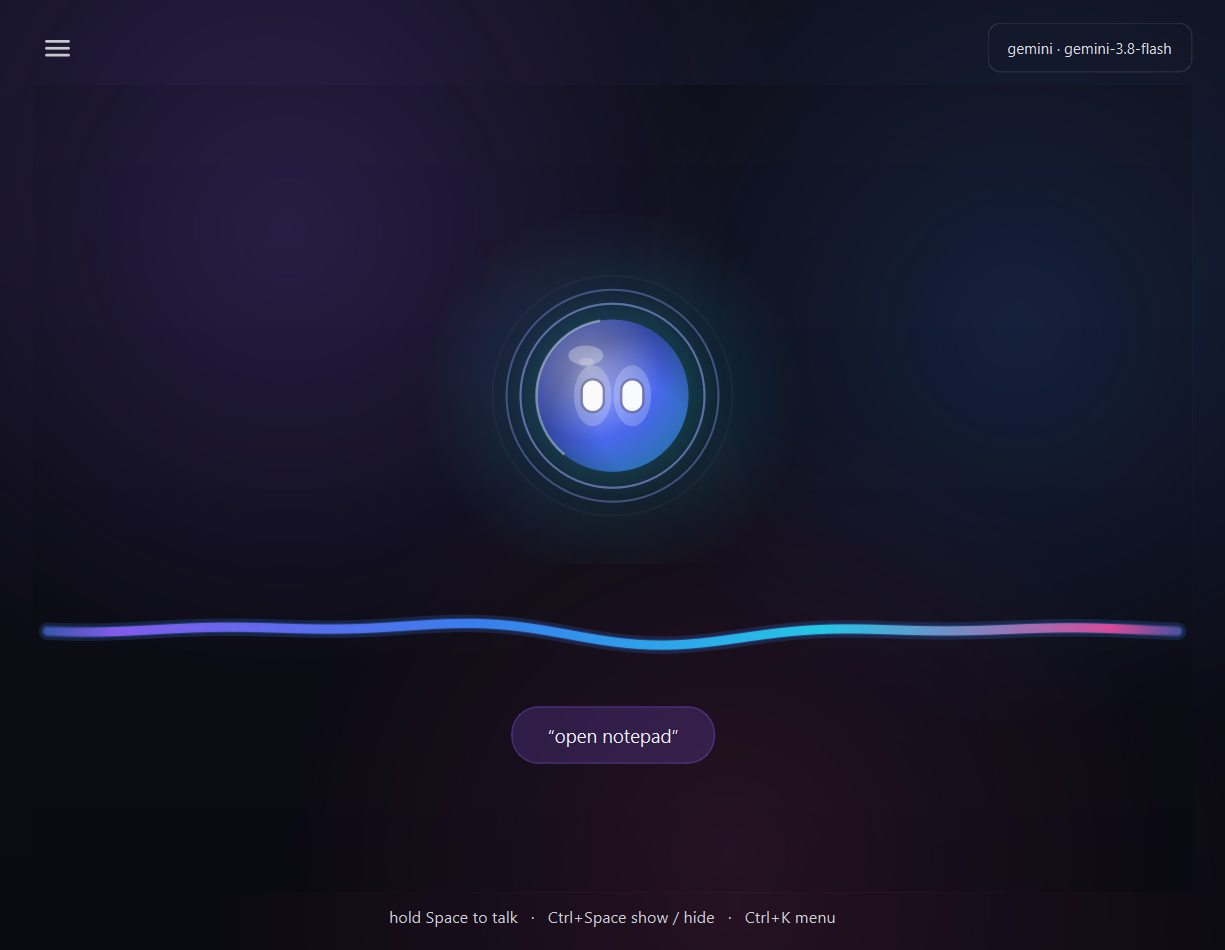
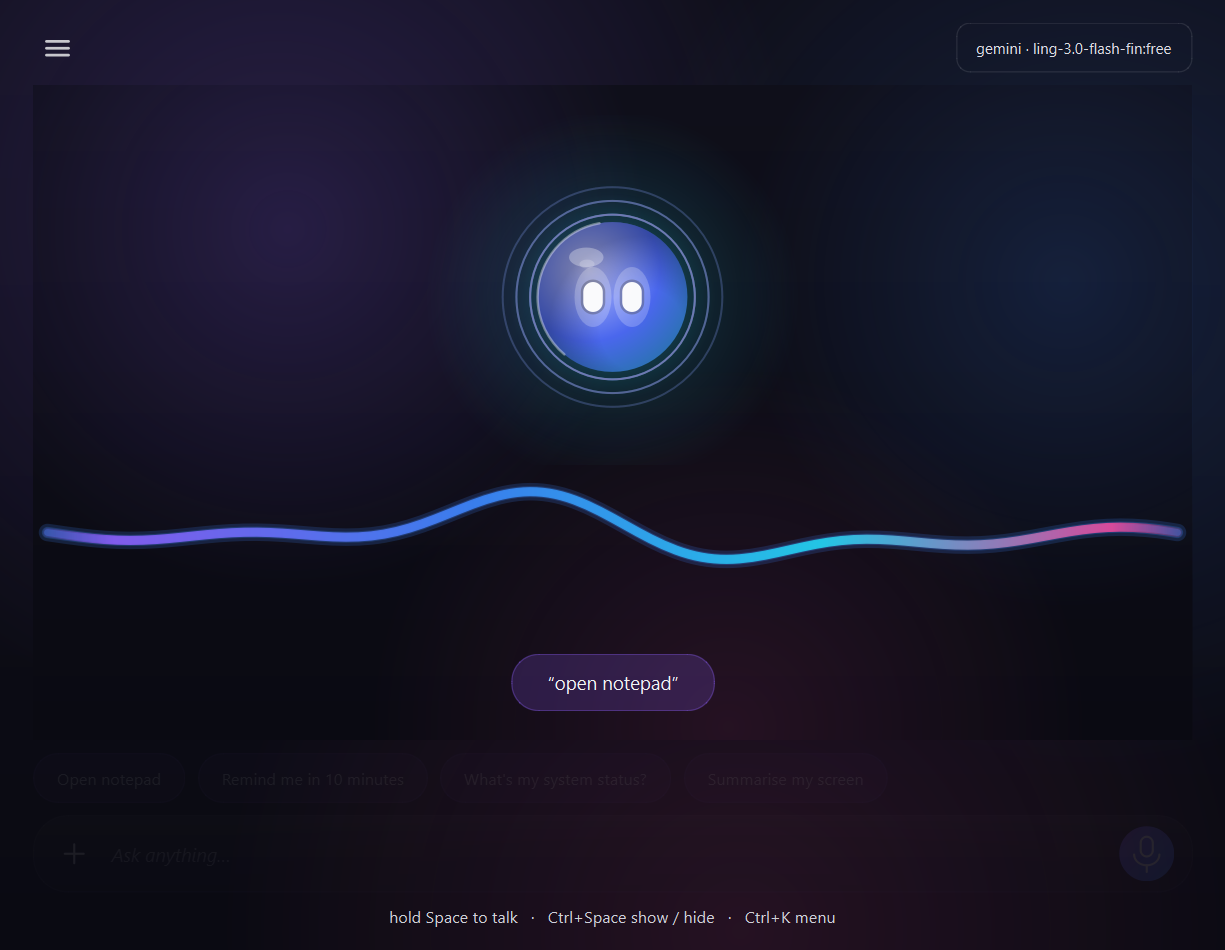
v36: no raw JSON errors (human toast + auto-retry), drifting ambient background, fade-to-10% voice focus, pulsing mic, chain reordered (or-ling -> nemotron -> groq -> gemini -> github)

diff --git a/app_qt.py b/app_qt.py
@@ -70,7 +70,12 @@ def _mix(c1: QColor, c2: QColor, t):
 
 # ---------------------------------------------------------------- background
 class Background(QWidget):
-    """Gradient base + a few huge soft colour orbs (the 'blurred blobs' of the spec)."""
+    """Gradient base + large soft colour orbs that slowly drift (ambient life)."""
+
+    def __init__(self, drift=False):
+        super().__init__()
+        self.drift = drift
+        self.phase = 0.0
 
     def paintEvent(self, _e):
         p = QPainter(self)
@@ -80,10 +85,16 @@ class Background(QWidget):
         g.setColorAt(0, BASE_TOP)
         g.setColorAt(1, BASE_BOTTOM)
         p.fillRect(self.rect(), QBrush(g))
-        for cx, cy, r, col, alpha in (
-                (w * 0.22, h * 0.18, min(w, h) * 0.55, VIOLET, 0.20),
-                (w * 0.85, h * 0.30, min(w, h) * 0.50, BLUE, 0.16),
-                (w * 0.60, h * 0.95, min(w, h) * 0.55, PINK, 0.12)):
+        ph = self.phase if self.drift else 0.0
+        spots = (
+            (w * (0.22 + 0.05 * math.sin(ph * 0.6)), h * (0.18 + 0.04 * math.cos(ph * 0.5)),
+             min(w, h) * 0.55, VIOLET, 0.20),
+            (w * (0.85 + 0.04 * math.cos(ph * 0.45)), h * (0.30 + 0.05 * math.sin(ph * 0.7)),
+             min(w, h) * 0.50, BLUE, 0.16),
+            (w * (0.60 + 0.05 * math.sin(ph * 0.35)), h * (0.95 + 0.03 * math.cos(ph * 0.6)),
+             min(w, h) * 0.55, PINK, 0.12),
+        )
+        for cx, cy, r, col, alpha in spots:
             grad = QRadialGradient(QPointF(cx, cy), r)
             c = QColor(col)
             c.setAlphaF(alpha)
@@ -352,17 +363,31 @@ class IconButton(QPushButton):
         super().__init__()
         self.kind = kind
         self.accent = accent
+        self.pulse = False
+        self._t = 0.0
         self.setFixedSize(size, size)
         self.setCursor(Qt.PointingHandCursor)
         self.setToolTip(tooltip)
         self.setStyleSheet("QPushButton{background:transparent;border:0;}")
+
+    def set_pulse(self, on):
+        self.pulse = bool(on)
+        self.update()
 
     def paintEvent(self, _e):
         p = QPainter(self)
         p.setRenderHint(QPainter.Antialiasing, True)
         w, h = self.width(), self.height()
         s = min(w, h) * 0.5
+        cx, cy = w / 2, h / 2
         if self.accent:
+            if self.pulse:
+                self._t = (self._t + 0.05) % 1.0
+                ring = QColor(VIOLET)
+                ring.setAlphaF(max(0.0, 0.55 * (1 - self._t)))
+                p.setPen(QPen(ring, 2)); p.setBrush(Qt.NoBrush)
+                rr = (w / 2.0) * (1.0 + self._t * 0.55)
+                p.drawEllipse(QPointF(cx, cy), rr, rr)
             g = QLinearGradient(0, 0, w, h)
             g.setColorAt(0, VIOLET); g.setColorAt(1, BLUE)
             p.setBrush(QBrush(g)); p.setPen(Qt.NoPen)
@@ -395,6 +420,8 @@ class Window(QMainWindow):
     level_sig = Signal(float)
     stream_sig = Signal(str)
     history_sig = Signal(str, str)
+    toast_sig = Signal(str)
+    retry_sig = Signal(str)
 
     def __init__(self):
         super().__init__()
@@ -415,12 +442,15 @@ class Window(QMainWindow):
         self.level_sig.connect(self._set_level)
         self.stream_sig.connect(self._stream)
         self.history_sig.connect(self._log_history)
+        self.toast_sig.connect(self.show_toast)
+        self.retry_sig.connect(self._schedule_retry)
         QShortcut(QKeySequence("Ctrl+Space"), self, activated=self._toggle_visible)
         QShortcut(QKeySequence("Ctrl+K"), self, activated=self._open_menu)
 
     # ------------------------------------------------------ build
     def _build(self):
-        stage = Background()
+        stage = Background(drift=True)
+        self._stage = stage
         self.setCentralWidget(stage)
         root = QVBoxLayout(stage)
         root.setContentsMargins(26, 18, 26, 18)
@@ -458,6 +488,16 @@ class Window(QMainWindow):
         self.chips_row.addStretch(1)
         root.addLayout(self.chips_row)
 
+        # toast (human-readable errors - never raw JSON)
+        self.toast = QLabel("")
+        self.toast.setVisible(False)
+        self.toast.setAlignment(Qt.AlignCenter)
+        self.toast.setWordWrap(True)
+        self.toast.setStyleSheet(
+            "background: rgba(236,72,153,0.16); border:1px solid rgba(236,72,153,0.38);"
+            "border-radius:16px; padding:11px 20px; color:#FFE9F4; font-size:13px;")
+        root.addWidget(self.toast, 0, Qt.AlignHCenter)
+
         # floating input pill
         self.bar = QFrame(); self.bar.setStyleSheet(f"QFrame{{{GLASS} border-radius:28px;}}")
         bl = QHBoxLayout(self.bar); bl.setContentsMargins(14, 8, 14, 8); bl.setSpacing(10)
@@ -484,6 +524,10 @@ class Window(QMainWindow):
         hint.setAlignment(Qt.AlignCenter)
         hint.setStyleSheet("color:#CFCFD8;font-size:12.5px;")
         root.addWidget(hint)
+
+        drift = QTimer(self)
+        drift.timeout.connect(self._drift)
+        drift.start(50)
         self._set_visibility("idle")
 
     def _home(self):
@@ -592,6 +636,51 @@ class Window(QMainWindow):
         lay.addWidget(note)
         return page
 
+    # ------------------------------------------------------ toast / errors
+    def show_toast(self, text, ms=6500):
+        self.toast.setText(text)
+        self.toast.setVisible(True)
+        if getattr(self, "_toast_timer", None) is None:
+            self._toast_timer = QTimer(self)
+            self._toast_timer.setSingleShot(True)
+            self._toast_timer.timeout.connect(lambda: self.toast.setVisible(False))
+        self._toast_timer.start(ms)
+
+    @staticmethod
+    def _human_error(err):
+        text = str(err).lower()
+        if "every provider failed" in text or "no provider has an api key" in text:
+            return "Every AI provider is busy right now — I'll retry in a moment."
+        if "503" in text or "high demand" in text:
+            return "That model's overloaded — switching to another one…"
+        if "429" in text or "quota" in text or "rate limit" in text:
+            return "Hit a rate limit — trying a different model…"
+        if "microphone" in text or "input device" in text:
+            return "I can't reach the microphone — try  run.bat mic."
+        if "timeout" in text:
+            return "That took too long — trying again with a faster model…"
+        return "Something went wrong on that one — say it again?"
+
+    # ------------------------------------------------------ drift
+    def _drift(self):
+        self._stage.phase += 0.01
+        self._stage.update()
+
+    # ------------------------------------------------------ fades
+    def _fade(self, widget, target, ms=300):
+        from PySide6.QtCore import QPropertyAnimation
+        fx = widget.graphicsEffect()
+        if not isinstance(fx, QGraphicsOpacityEffect):
+            fx = QGraphicsOpacityEffect(widget)
+            widget.setGraphicsEffect(fx)
+            fx.setOpacity(1.0)
+        anim = QPropertyAnimation(fx, b"opacity", widget)
+        anim.setDuration(ms)
+        anim.setStartValue(float(fx.opacity()))
+        anim.setEndValue(float(target))
+        anim.start(QPropertyAnimation.DeleteWhenStopped)
+        widget._fade_anim = anim
+
     # ------------------------------------------------------ menu / pages
     def _open_menu(self):
         menu = QMenu(self)
@@ -638,8 +727,17 @@ class Window(QMainWindow):
         self.transcript.setVisible(listening and bool(hint))
         self.wave.setVisible(mode in ("listening", "speaking", "processing"))
         self.reply_label.setVisible(speaking or bool(self.reply_label.text()))
-        self.bar.setVisible(not listening)
-        self.state_label.setVisible(not listening)
+
+        # voice dominates: instead of hiding, everything else fades back
+        self._fade(self.bar, 0.10 if listening else 1.0, 350)
+        self._fade(self.state_label, 0.12 if listening else 1.0, 350)
+        for i in range(self.chips_row.count()):
+            w = self.chips_row.itemAt(i).widget()
+            if isinstance(w, Pill):
+                w.setVisible(True)
+                target = 1.0 if (mode == "idle" and self.history) else 0.08
+                QTimer.singleShot(i * 70, lambda w=w, t=target: self._fade(w, t, 420))
+
         if listening:
             self.state_label.setText("")
         elif processing:
@@ -648,16 +746,6 @@ class Window(QMainWindow):
             self.state_label.setText("")
         else:
             self.state_label.setText(GREETINGS[int(self.orb.phase) % len(GREETINGS)])
-        if not (listening or processing):
-            pass
-        for i in range(self.chips_row.count()):
-            w = self.chips_row.itemAt(i).widget()
-            if isinstance(w, Pill):
-                show = mode == "idle" and bool(self.history)
-                w.setVisible(show)
-                if show and w.graphicsEffect().opacity() < 0.05:
-                    w.fade_in(120 * i)
-        self._apply_menu_cursor()
 
     def _apply_menu_cursor(self):
         pass
@@ -674,6 +762,7 @@ class Window(QMainWindow):
         threading.Thread(target=self._run_turn, args=(text,), daemon=True).start()
 
     def _run_turn(self, text):
+        self._last_text = text
         self.history_sig.emit("You", text)
         self._spoken = []
         self.mode_sig.emit("processing", "")
@@ -682,8 +771,10 @@ class Window(QMainWindow):
         except Exception as e:
             self.mode_sig.emit("idle", "")
             self.transcript_sig.emit("")
-            self.reply_label.setText(f"⚠ {str(e)[:180]}")
+            self.toast_sig.emit(self._human_error(e))
+            self.retry_sig.emit(text)
             return
+        self._retried = False
         reply = (reply or "").strip()
         if not reply:
             self.mode_sig.emit("idle", "")
@@ -695,6 +786,13 @@ class Window(QMainWindow):
         except Exception:
             pass
         self.mode_sig.emit("idle", "")
+
+    def _schedule_retry(self, text):
+        if getattr(self, "_retried", False) or not text:
+            return
+        self._retried = True
+        self.show_toast("All providers were busy — retrying in 4 s…", 5000)
+        QTimer.singleShot(4000, lambda: self._send_text(text))
 
     def _log_history(self, who, text):
         self.history.append((who, text))
@@ -777,17 +875,12 @@ class Window(QMainWindow):
         self.mode = mode
         self.orb.mode = mode
         self.wave.mode = mode
+        self.mic_btn.set_pulse(mode == "listening")
         if mode == "listening":
             self.transcript_sig.emit(hint or "listening…")
         if mode in ("listening", "processing"):
             self.reply_label.setText("")
         self._set_visibility(mode, hint)
-        if mode == "idle" and self.history:
-            for i in range(self.chips_row.count()):
-                w = self.chips_row.itemAt(i).widget()
-                if isinstance(w, Pill):
-                    w.setVisible(True)
-                    w.fade_in(140 * i)
 
     def _toggle_visible(self):
         self.hide() if self.isVisible() else self.show()
@@ -823,6 +916,7 @@ def main():
 def _prep(win, mode="listening"):
     win.orb.mode = mode; win.wave.mode = mode
     win.orb.level = 0.55; win.wave.level = 0.55
+    win.history = [("You", "open notepad"), ("RA", "Notepad's open — anything else?")]
     win.transcript_sig.emit("“open notepad”")
     win.reply_label.setText("")
     win.history_sig.emit("You", "open notepad")
@@ -833,7 +927,6 @@ def _prep(win, mode="listening"):
         for i in range(win.chips_row.count()):
             w = win.chips_row.itemAt(i).widget()
             if isinstance(w, Pill):
-                w.setVisible(True)
                 w.graphicsEffect().setOpacity(1.0)
 
 
